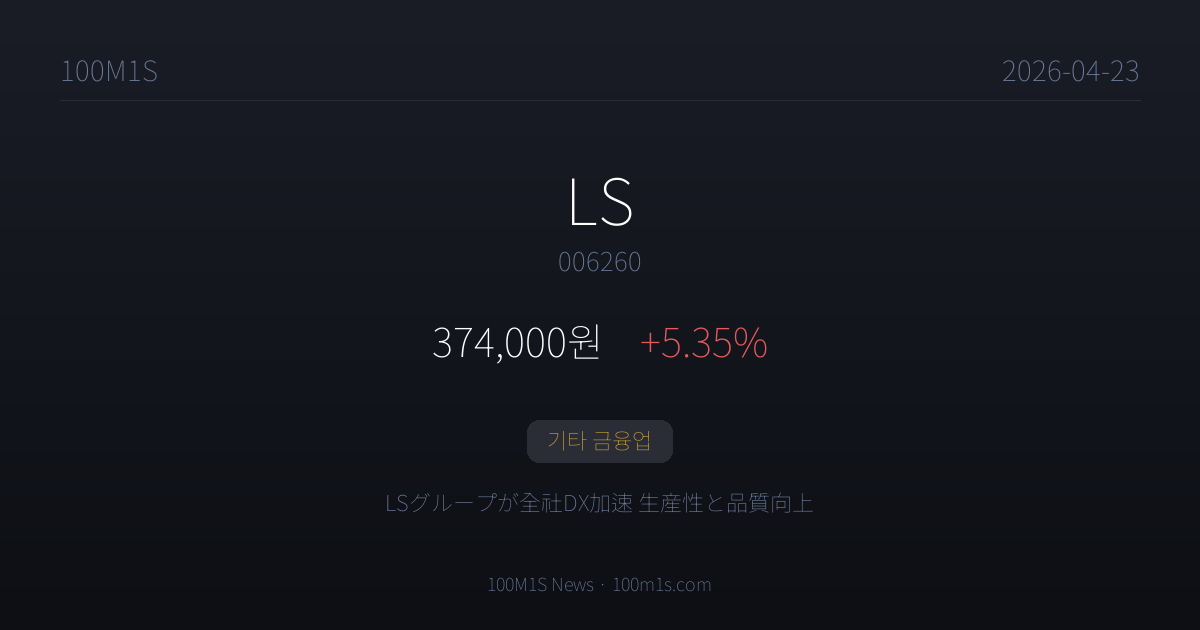
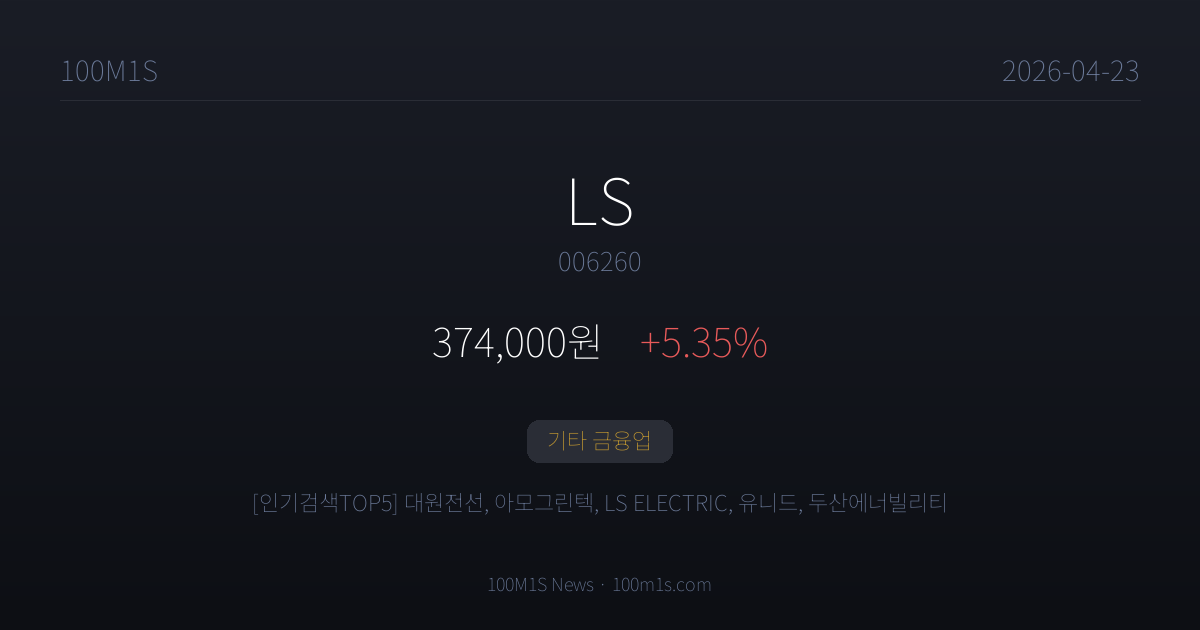
chore(news): 2026-04-23T18:32 pipeline

Changed region(s): [[0.2158, 0.7841, 0.8017, 0.8143]]

diff --git a/news/stock/2026-04-23/006340.html b/news/stock/2026-04-23/006340.html
@@ -4,7 +4,7 @@
 <meta charset="UTF-8">
 <title>대원전선 (006340) · 100M1S</title>
 <meta property="og:title" content="대원전선 (006340) · 100M1S">
-<meta property="og:description" content="절연선 및 케이블 제조업 · 오늘의 주목 종목">
+<meta property="og:description" content="[인기검색TOP5] 대원전선, 아모그린텍, LS ELECTRIC, 유니드, 두산에너빌리티">
 <meta property="og:image" content="https://100m1s.com/og/news/stock/2026-04-23/006340.png">
 <meta property="og:image:width" content="1200">
 <meta property="og:image:height" content="630">

diff --git a/news/stock/2026-04-23/125210.html b/news/stock/2026-04-23/125210.html
@@ -4,7 +4,7 @@
 <meta charset="UTF-8">
 <title>아모그린텍 (125210) · 100M1S</title>
 <meta property="og:title" content="아모그린텍 (125210) · 100M1S">
-<meta property="og:description" content="전자부품 제조업 · 오늘의 주목 종목">
+<meta property="og:description" content="[인기검색TOP5] 대원전선, 아모그린텍, LS ELECTRIC, 유니드, 두산에너빌리티">
 <meta property="og:image" content="https://100m1s.com/og/news/stock/2026-04-23/125210.png">
 <meta property="og:image:width" content="1200">
 <meta property="og:image:height" content="630">

diff --git a/news/stock/2026-04-23/006260.html b/news/stock/2026-04-23/006260.html
@@ -4,7 +4,7 @@
 <meta charset="UTF-8">
 <title>LS (006260) · 100M1S</title>
 <meta property="og:title" content="LS (006260) · 100M1S">
-<meta property="og:description" content="LSグループが全社DX加速 生産性と品質向上">
+<meta property="og:description" content="[인기검색TOP5] 대원전선, 아모그린텍, LS ELECTRIC, 유니드, 두산에너빌리티">
 <meta property="og:image" content="https://100m1s.com/og/news/stock/2026-04-23/006260.png">
 <meta property="og:image:width" content="1200">
 <meta property="og:image:height" content="630">
